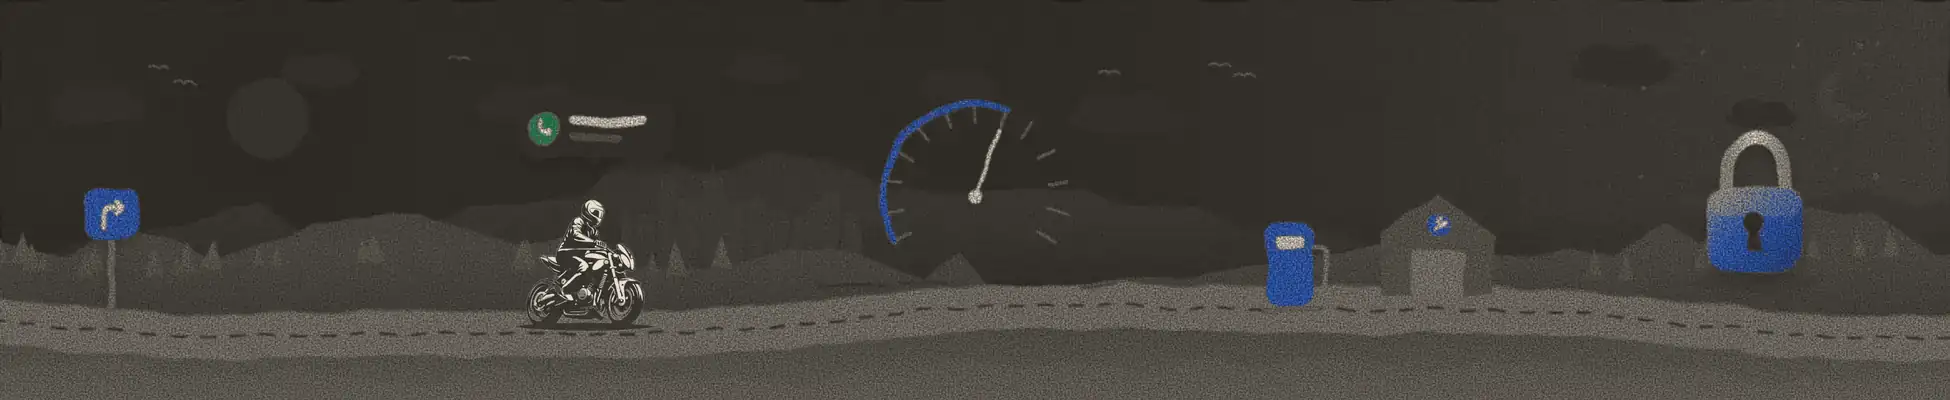
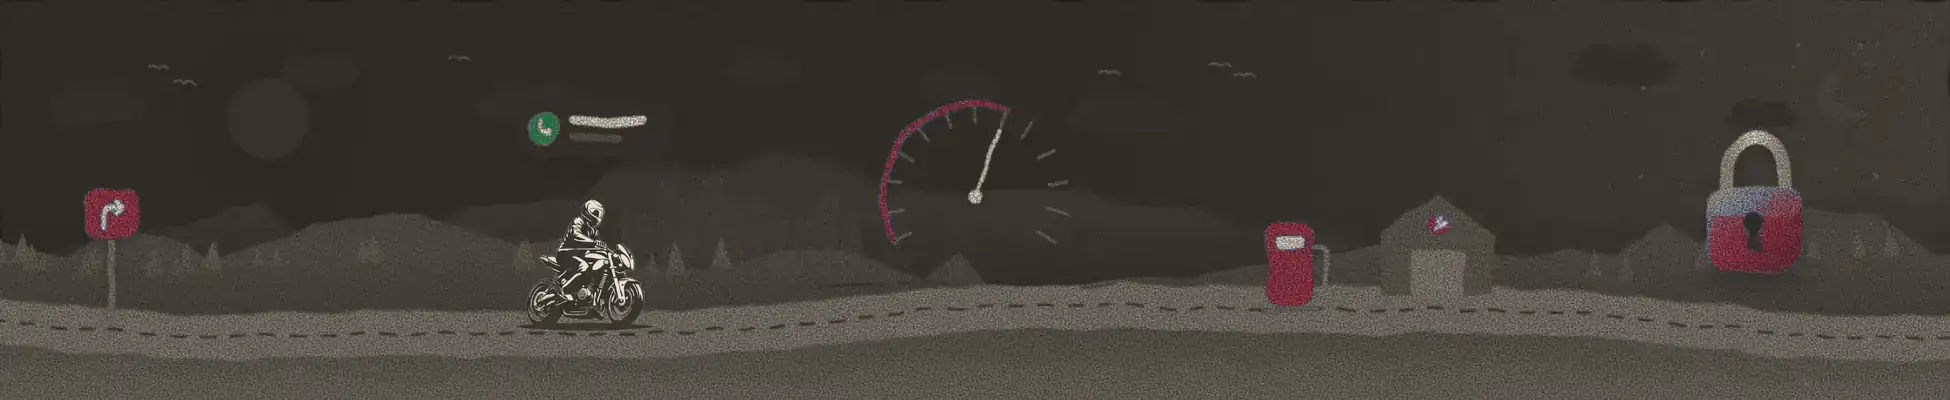
Onboarding art and Bluetooth badge in wine red instead of blue
Claude-Session: https://claude.ai/code/session_011svZSxEu7wpuhhs3qeC1tv

diff --git a/sw.js b/sw.js
@@ -1,5 +1,5 @@
 // Waylink — offline shell. Caches the app's own files; fonts are cached as they load.
-const CACHE = 'waylink-v139';
+const CACHE = 'waylink-v140';
 const SHELL = ['./', 'index.html', 'styles.css', 'js/app.js', 'js/views.js', 'js/store.js', 'js/link.js', 'js/protocol.js', 'js/sound.js', 'js/icons-huge.js', 'img/onb/scene-light.webp', 'img/onb/scene-dark.webp', 'img/onb/scene-night.webp', 'img/grain.png', 'img/onb/rider-mono.webp', 'img/onb/rider-street.webp', 'img/onb/bt-disc.webp', 'manifest.webmanifest', 'icon.svg', 'img/logos/wl-loop-rust.svg', 'img/logos/wl-turns-rust.svg', 'img/logos/png/wl-loop-rust-180.png'];
 // Cache each file on its own, so one missing file can't block an update.
 self.addEventListener('install', (e) => { e.waitUntil(caches.open(CACHE).then((c) => Promise.all(SHELL.map((u) => c.add(new Request(u, { cache: 'reload' })).catch(() => {})))).then(() => self.skipWaiting())); });

diff --git a/styles.css b/styles.css
@@ -2144,3 +2144,4 @@ html[data-night] .onb-img { background-image: url(img/onb/scene-night.webp); }
 .av-photo > span svg { width: 24px; height: 24px; } .av-photo b { font-size: 12.5px; font-weight: 650; }
 /* Onboarding art: its top edge melts into the page instead of a hard line */
 .onb-stage .onb-img { -webkit-mask-image: linear-gradient(to bottom, transparent 0, rgba(0,0,0,.35) 18%, #000 46%); mask-image: linear-gradient(to bottom, transparent 0, rgba(0,0,0,.35) 18%, #000 46%); }
+.lk-ring { border-color: var(--accent); }

diff --git a/tools/rewine.py b/tools/rewine.py
@@ -1,0 +1,17 @@
+# Recolour the blue in baked onboarding art to wine red, keeping each pixel's shading and grain.
+import sys, numpy as np
+from PIL import Image
+def rewine(path):
+    im = Image.open(path); has_a = im.mode == 'RGBA'
+    a = np.asarray(im.convert('RGBA')).astype(np.float32) / 255
+    rgb = a[..., :3]
+    hsv = np.asarray(Image.fromarray((rgb * 255).astype(np.uint8)).convert('HSV')).astype(np.float32) / 255
+    h, s, v = hsv[..., 0] * 360, hsv[..., 1], hsv[..., 2]
+    blue = np.clip(1 - np.abs(h - 225) / 55, 0, 1) * np.clip((s - .06) / .14, 0, 1)
+    # wine: hue ~352°, slightly deeper value, a touch less saturated for the paper look
+    nh = np.full_like(h, 352 / 360); ns = np.clip(s * .92, 0, 1); nv = np.clip(v * .86, 0, 1)
+    new = np.asarray(Image.fromarray(np.dstack([nh, ns, nv]).__mul__(255).astype(np.uint8), 'HSV').convert('RGB')).astype(np.float32) / 255
+    out = rgb * (1 - blue[..., None]) + new * blue[..., None]
+    res = np.dstack([out, a[..., 3:]]) if has_a else out
+    Image.fromarray((res * 255).round().astype(np.uint8), 'RGBA' if has_a else 'RGB').save(path, quality=62 if not has_a else 80, method=6)
+for p in sys.argv[1:]: rewine(p); print('rewined', p)
